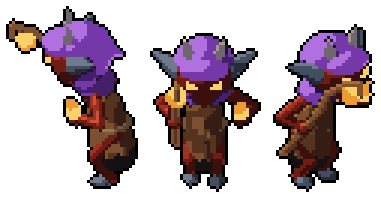
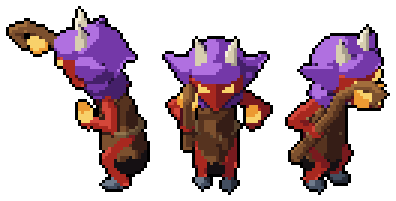
Art A4: review page, progress sprites and log for three more passes on all 18
Claude-Session: https://claude.ai/code/session_01QbDoFLJr5rX34eWgCEDPgG

diff --git a/diablo-clone/art/review/a4-passes/index.html b/diablo-clone/art/review/a4-passes/index.html
@@ -1,0 +1,196 @@
+<title>Refinement Round A4</title>
+<meta name="claude:viewport-fit-sides" content="cover">
+<link rel="stylesheet" href="https://fonts.googleapis.com/css2?family=Pixelify+Sans:wght@500;700&family=IBM+Plex+Sans:wght@400;600&family=IBM+Plex+Mono:wght@400&display=swap">
+<style>
+/* layout: one column of monsters; each shows the concept, then before/after strips that scroll sideways on phones. Single dark look to match the game's dungeon. */
+:root {
+  --bg: #17120f; --panel: #211a16; --ink: #ece2cf; --dim: #a8987f; --rule: #3a2f27; --ember: #e8902f;
+  --display: 'Pixelify Sans', 'Courier New', monospace; --body: 'IBM Plex Sans', system-ui, sans-serif; --mono: 'IBM Plex Mono', ui-monospace, monospace;
+  color-scheme: dark;
+}
+body { background: var(--bg); color: var(--ink); font-family: var(--body); line-height: 1.55; }
+.wrap { max-width: 1180px; margin: 0 auto; padding-block: 28px 64px; padding-left: max(16px, env(safe-area-inset-left, 0px)); padding-right: max(16px, env(safe-area-inset-right, 0px)); display: grid; gap: 44px; }
+h1 { font-family: var(--display); font-weight: 700; font-size: clamp(28px, 5vw, 44px); line-height: 1.1; margin: 0; letter-spacing: 0.02em; text-wrap: balance; }
+h1 em { font-style: normal; color: var(--ember); }
+h2 { font-family: var(--display); font-weight: 700; font-size: 26px; margin: 0; letter-spacing: 0.03em; }
+.lede { max-width: 66ch; color: var(--dim); margin: 10px 0 0; }
+.lede b { color: var(--ink); font-weight: 600; }
+section { display: grid; gap: 14px; border-top: 1px solid var(--rule); padding-top: 26px; }
+.head { display: flex; flex-wrap: wrap; align-items: baseline; gap: 6px 14px; }
+.tag { font-family: var(--mono); font-size: 12px; color: var(--dim); letter-spacing: 0.06em; text-transform: uppercase; }
+.row { display: grid; grid-template-columns: minmax(0, 420px) minmax(0, 1fr); gap: 18px; align-items: start; }
+@media (max-width: 760px) { .row { grid-template-columns: minmax(0, 1fr); } .concept { max-width: 420px; } }
+.concept { margin: 0; background: var(--panel); border: 1px solid var(--rule); }
+.concept img { display: block; width: 100%; image-rendering: pixelated; }
+figcaption { font-family: var(--mono); font-size: 11px; color: var(--dim); padding: 6px 8px; }
+.notes { min-width: 0; display: grid; gap: 8px; }
+.notes ul { margin: 0; padding-left: 18px; max-width: 70ch; }
+.notes li { margin: 2px 0; }
+.verdict { font-family: var(--mono); font-size: 12.5px; color: var(--dim); }
+.strip { overflow-x: auto; border: 1px solid var(--rule); background: #000; }
+.strip img { display: block; max-width: none; height: auto; image-rendering: pixelated; }
+.strip.fit img { max-width: 100%; }
+details { border: 1px solid var(--rule); background: var(--panel); }
+summary { cursor: pointer; padding: 8px 12px; font-family: var(--mono); font-size: 12.5px; color: var(--dim); }
+summary:focus-visible { outline: 2px solid var(--ember); }
+details .strip { border: 0; border-top: 1px solid var(--rule); }
+.ask { background: var(--panel); border: 1px solid var(--rule); padding: 16px 18px; max-width: 72ch; }
+.ask h2 { font-size: 20px; margin-bottom: 6px; }
+.ask ol { margin: 0; padding-left: 20px; }
+</style>
+
+<div class="wrap">
+  <header>
+    <h1>Three more passes on every monster <em>A4</em></h1>
+    <p class="lede">All 18 monsters built or refined so far, each given at least 3 new passes against your concept. Every pass was judged side by side against the best so far, in both left/right orders, and kept only if it won both. Each strip shows <b>before this round</b> on top and <b>after</b> below. Every other monster renders exactly as before, and no frame clips.</p>
+  </header>
+
+  <h2 style="margin-top:8px;font-size:22px;color:var(--dim)">Skeletons</h2>
+  <section>
+    <div class="head"><h2>Burning Dead</h2><span class="tag">3 passes: 2 kept; a wider helm brim lost (mushroom cap from the side).</span></div>
+    <div class="row">
+      <figure class="concept"><img src="concepts/burning.png" alt="Concept: Burning Dead"><figcaption>your concept</figcaption></figure>
+      <div class="notes"><p style="margin:0;max-width:66ch">Sword now held low and forward, point down, as in the concept; a broader dark blued-steel blade; bones 1.2x thicker.</p></div>
+    </div>
+    <div class="strip"><img src="final-burning.png" alt="Burning Dead: before and after this round"></div>
+  </section>
+  <section>
+    <div class="head"><h2>Crypt Spearman</h2><span class="tag">3 passes, all kept.</span></div>
+    <div class="row">
+      <figure class="concept"><img src="concepts/spearman.png" alt="Concept: Crypt Spearman"><figcaption>your concept</figcaption></figure>
+      <div class="notes"><p style="margin:0;max-width:66ch">Spear angled up across the body with a thicker shaft and a bigger leaf head; the blue rag now hangs at the back too, like your back view.</p></div>
+    </div>
+    <div class="strip"><img src="final-spearman.png" alt="Crypt Spearman: before and after this round"></div>
+  </section>
+  <section>
+    <div class="head"><h2>Bone Axeman</h2><span class="tag">3 passes, all kept. Cheek guards still flare a little from the front.</span></div>
+    <div class="row">
+      <figure class="concept"><img src="concepts/axeman.png" alt="Concept: Bone Axeman"><figcaption>your concept</figcaption></figure>
+      <div class="notes"><p style="margin:0;max-width:66ch">A broad axe head about skull-size; the helm raised so the eyes show; cheek and neck guards angled to catch the light.</p></div>
+    </div>
+    <div class="strip"><img src="final-axeman.png" alt="Bone Axeman: before and after this round"></div>
+  </section>
+  <section>
+    <div class="head"><h2>Grave Crossbowman</h2><span class="tag">3 passes: 1 kept; two quiver tries lost (bolts blend into the bones at this size).</span></div>
+    <div class="row">
+      <figure class="concept"><img src="concepts/gravebow.png" alt="Concept: Grave Crossbowman"><figcaption>your concept</figcaption></figure>
+      <div class="notes"><p style="margin:0;max-width:66ch">A longer, thicker stock and a wide bent steel prod.</p></div>
+    </div>
+    <div class="strip"><img src="final-gravebow.png" alt="Grave Crossbowman: before and after this round"></div>
+  </section>
+  <section>
+    <div class="head"><h2>Tomb Guard</h2><span class="tag">3 passes: 2 kept, 1 tie.</span></div>
+    <div class="row">
+      <figure class="concept"><img src="concepts/tombguard.png" alt="Concept: Tomb Guard"><figcaption>your concept</figcaption></figure>
+      <div class="notes"><p style="margin:0;max-width:66ch">A taller, wider tower shield; a longer mace with a bigger nine-spiked ball.</p></div>
+    </div>
+    <div class="strip"><img src="final-tombguard.png" alt="Tomb Guard: before and after this round"></div>
+  </section>
+  <h2 style="margin-top:8px;font-size:22px;color:var(--dim)">Imps</h2>
+  <section>
+    <div class="head"><h2>Fallen One (Spearling)</h2><span class="tag">3 passes, all kept.</span></div>
+    <div class="row">
+      <figure class="concept"><img src="concepts/fallen.png" alt="Concept: Fallen One (Spearling)"><figcaption>your concept</figcaption></figure>
+      <div class="notes"><p style="margin:0;max-width:66ch">Brick-red skin (the old flesh read near-black), cream horns, mauve ears; a stouter spear with a broad pale head; chunkier limbs and body.</p></div>
+    </div>
+    <div class="strip"><img src="final-fallen.png" alt="Fallen One (Spearling): before and after this round"></div>
+  </section>
+  <section>
+    <div class="head"><h2>Fallen Shaman (Ember Acolyte)</h2><span class="tag">4 passes: 3 kept; a shorter flared robe lost.</span></div>
+    <div class="row">
+      <figure class="concept"><img src="concepts/shaman.png" alt="Concept: Fallen Shaman (Ember Acolyte)"><figcaption>your concept</figcaption></figure>
+      <div class="notes"><p style="margin:0;max-width:66ch">The same red skin; a stouter staff whose hook curls round the orb; ears in the hood purple, as in the concept.</p></div>
+    </div>
+    <div class="strip"><img src="final-shaman.png" alt="Fallen Shaman (Ember Acolyte): before and after this round"></div>
+  </section>
+  <section>
+    <div class="head"><h2>Fallen Knifer</h2><span class="tag">3 passes, all kept.</span></div>
+    <div class="row">
+      <figure class="concept"><img src="concepts/knifer.png" alt="Concept: Fallen Knifer"><figcaption>your concept</figcaption></figure>
+      <div class="notes"><p style="margin:0;max-width:66ch">The new colors; a bigger pale leaf knife with an iron guard; chunkier limbs.</p></div>
+    </div>
+    <div class="strip"><img src="final-knifer.png" alt="Fallen Knifer: before and after this round"></div>
+  </section>
+  <section>
+    <div class="head"><h2>Fallen Slinger</h2><span class="tag">4 passes: 3 kept. Still a thin line in the pure side views.</span></div>
+    <div class="row">
+      <figure class="concept"><img src="concepts/slinger.png" alt="Concept: Fallen Slinger"><figcaption>your concept</figcaption></figure>
+      <div class="notes"><p style="margin:0;max-width:66ch">The new colors; the sling bows into a wide loop with a bigger cup; grey stones; a bigger capelet.</p></div>
+    </div>
+    <div class="strip"><img src="final-slinger.png" alt="Fallen Slinger: before and after this round"></div>
+  </section>
+  <h2 style="margin-top:8px;font-size:22px;color:var(--dim)">Hounds</h2>
+  <section>
+    <div class="head"><h2>Wolf (Grey Pack Hunter)</h2><span class="tag">3 passes, all kept.</span></div>
+    <div class="row">
+      <figure class="concept"><img src="concepts/wolf.png" alt="Concept: Wolf (Grey Pack Hunter)"><figcaption>your concept</figcaption></figure>
+      <div class="notes"><p style="margin:0;max-width:66ch">A lean, long-legged body; slate-blue hide with a pale throat, belly and toes; a bushy pale-tipped tail.</p></div>
+    </div>
+    <div class="strip"><img src="final-wolf.png" alt="Wolf (Grey Pack Hunter): before and after this round"></div>
+  </section>
+  <section>
+    <div class="head"><h2>Bone Hound</h2><span class="tag">5 passes: 3 kept; pale chest (hidden by the scarf) and crescent horns lost.</span></div>
+    <div class="row">
+      <figure class="concept"><img src="concepts/hound.png" alt="Concept: Bone Hound"><figcaption>your concept</figcaption></figure>
+      <div class="notes"><p style="margin:0;max-width:66ch">The lean body; broad bone slabs lying across the back; a bushy tail.</p></div>
+    </div>
+    <div class="strip"><img src="final-hound.png" alt="Bone Hound: before and after this round"></div>
+  </section>
+  <section>
+    <div class="head"><h2>Hell Hound (Ember Hound)</h2><span class="tag">3 passes, all kept.</span></div>
+    <div class="row">
+      <figure class="concept"><img src="concepts/ghoulhound.png" alt="Concept: Hell Hound (Ember Hound)"><figcaption>your concept</figcaption></figure>
+      <div class="notes"><p style="margin:0;max-width:66ch">The lean body with refitted ember slashes; cream toes; a cream skull; a bushy tail.</p></div>
+    </div>
+    <div class="strip"><img src="final-ghoulhound.png" alt="Hell Hound (Ember Hound): before and after this round"></div>
+  </section>
+  <section>
+    <div class="head"><h2>Brigand Mastiff</h2><span class="tag">4 passes: 3 kept; longer legs were a tie.</span></div>
+    <div class="row">
+      <figure class="concept"><img src="concepts/mastiff.png" alt="Concept: Brigand Mastiff"><figcaption>your concept</figcaption></figure>
+      <div class="notes"><p style="margin:0;max-width:66ch">A bigger head with heavier droopy ears; cream toes; a broader, darker studded collar.</p></div>
+    </div>
+    <div class="strip"><img src="final-mastiff.png" alt="Brigand Mastiff: before and after this round"></div>
+  </section>
+  <h2 style="margin-top:8px;font-size:22px;color:var(--dim)">Ogres and the Treant</h2>
+  <section>
+    <div class="head"><h2>Ogre Clubber</h2><span class="tag">3 passes, all kept.</span></div>
+    <div class="row">
+      <figure class="concept"><img src="concepts/oclubber.png" alt="Concept: Ogre Clubber"><figcaption>your concept</figcaption></figure>
+      <div class="notes"><p style="margin:0;max-width:66ch">Top-heavy: slimmer belly, broader chest, bigger shoulders and arms; head hunched forward into a hump; a thicker log club.</p></div>
+    </div>
+    <div class="strip"><img src="final-oclubber.png" alt="Ogre Clubber: before and after this round"></div>
+  </section>
+  <section>
+    <div class="head"><h2>Ogre Rockthrower</h2><span class="tag">3 passes, all kept.</span></div>
+    <div class="row">
+      <figure class="concept"><img src="concepts/orockthrower.png" alt="Concept: Ogre Rockthrower"><figcaption>your concept</figcaption></figure>
+      <div class="notes"><p style="margin:0;max-width:66ch">The same build; a bigger rock lifted overhead and a fuller rock bag.</p></div>
+    </div>
+    <div class="strip"><img src="final-orockthrower.png" alt="Ogre Rockthrower: before and after this round"></div>
+  </section>
+  <section>
+    <div class="head"><h2>Ogre Shieldbearer</h2><span class="tag">3 passes, all kept.</span></div>
+    <div class="row">
+      <figure class="concept"><img src="concepts/oshield.png" alt="Concept: Ogre Shieldbearer"><figcaption>your concept</figcaption></figure>
+      <div class="notes"><p style="margin:0;max-width:66ch">The same build; a grey slate helm instead of near-black; a bigger plank shield with steel bands.</p></div>
+    </div>
+    <div class="strip"><img src="final-oshield.png" alt="Ogre Shieldbearer: before and after this round"></div>
+  </section>
+  <section>
+    <div class="head"><h2>Ogre Enforcer</h2><span class="tag">3 passes, all kept.</span></div>
+    <div class="row">
+      <figure class="concept"><img src="concepts/oenforcer.png" alt="Concept: Ogre Enforcer"><figcaption>your concept</figcaption></figure>
+      <div class="notes"><p style="margin:0;max-width:66ch">The same build; the cleaver shows its broad face; bigger spiked pads; bracers over the thicker forearms.</p></div>
+    </div>
+    <div class="strip"><img src="final-oenforcer.png" alt="Ogre Enforcer: before and after this round"></div>
+  </section>
+  <section>
+    <div class="head"><h2>Treant Elder</h2><span class="tag">3 passes: 2 kept; blunter roots lost (the base read as a bell).</span></div>
+    <div class="row">
+      <figure class="concept"><img src="concepts/treant.png" alt="Concept: Treant Elder"><figcaption>your concept</figcaption></figure>
+      <div class="notes"><p style="margin:0;max-width:66ch">The crown rebuilt as three big lobes; hands held out from the trunk with bigger, longer claws.</p></div>
+    </div>
+    <div class="strip"><img src="final-treant.png" alt="Treant Elder: before and after this round"></div>
+  </section>
+</div>

diff --git a/diablo-clone/art/ART_LOG.md b/diablo-clone/art/ART_LOG.md
@@ -80,3 +80,33 @@ All in `fallenRig` behind `imp` (not goblin, not digger), so the goblins, chieft
 Order disagreements: 1 of 14 comparisons. Lint (rig-sheet): light 0.22-0.55, noise < 3.4%. No frame of
 idle/walk/attack/hit/death in 8 directions touches the sprite box edge. Every other monster renders
 pixel-identical to before (zoom-1 strips `cmp` equal).
+
+## A4: three more passes on all 18 (2026-11-04)
+The user asked for at least 3 more passes per monster already built or refined. Four parallel reviewers, one
+per body family, each on its own worktree from the art tip a60c814, merged into `art` (merges f9f04a9 and
+before). All code stays behind each monster's own look flags or code paths.
+Review page: https://claude.ai/artifact/4wfqKxVYEHnsBgCETt5wYM (source `art/review/a4-passes/`: `final-<id>.png`
+= before this round vs after; per-family folders hold every pass in both left/right orders).
+Checks after the merge: the 22 monsters outside these 18 render pixel-identical to a60c814; none of the 18
+touches its sprite box edge in any frame of idle/walk/attack-shoot-cast/hit/death in 8 directions.
+
+- **Skeletons** (`skeletonRig`): burning sword held low point-down, broad SLATE blade, bones 1.2x; spearman spear
+  angled up, thicker shaft, bigger head, rag at the back too; axeman skull-size axe head, helm raised, guards angled
+  to the light; gravebow longer stock and bent prod; tombguard bigger shield, bigger 9-spike mace. 10 of 15 kept.
+- **Imps** (`fallenRig`, imps only): skin `M.CLOTH_RED` (FLESH read near-black), cream BONE horns, mauve HORN ears;
+  spearling stouter spear with a BLADE head and chunkier body; knifer bigger BLADE knife with guard; shaman stouter
+  staff, hook curls round the orb, ears in hood purple; slinger wide sling loop, grey ROCK stones, bigger capelet.
+  12 of 14 kept (see the imp section above for the per-pass table).
+- **Hounds** (`houndRig`, new flags `lean`, `bib`, `paws`, `brush`, `slabs`, `collar` on these entries only): wolf
+  lean long-legged body, skin now HIDE (shared with the Alpha) with pale throat/belly/toes and a bushy tail; bone hound
+  lean body, bone slabs across the back, bushy tail; hell hound lean body, refitted slashes, cream toes, cream skull
+  (entry's `bone: M.OLDBONE` dropped), bushy tail; mastiff head 1.45x, heavier ears, darker broader studded collar.
+  11 of 14 kept.
+- **Ogres + treant** (`ogreRig` grunts, `treantRig`): grunts top-heavy (slimmer belly, broader chest, bigger shoulders,
+  arms 1.35x), head hunched forward into a hump, bigger feet; per grunt thicker club, bigger rock and bag, SLATE helm and
+  bigger banded shield, cleaver shown flat with bigger pads. Treant crown rebuilt as three big lobes; hands held out,
+  bigger claws. 14 of 15 kept (blunter treant roots lost).
+
+Still open: gravebow quiver (no palette color stands off the bones), spear head hidden in the spearman's front view,
+axeman cheek guards flare in front, slinger's sling edge-on in pure side views, mastiff still a little bear-like,
+grunt back views lack muscle definition, treant root feet.
